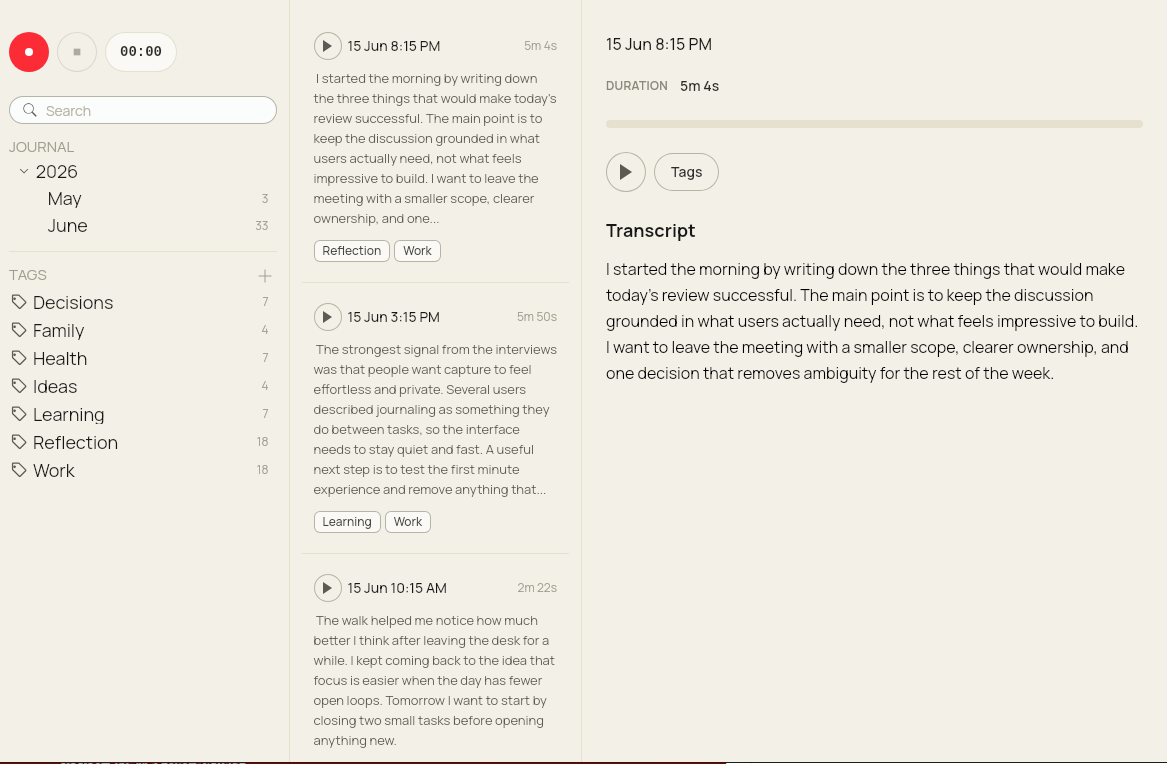
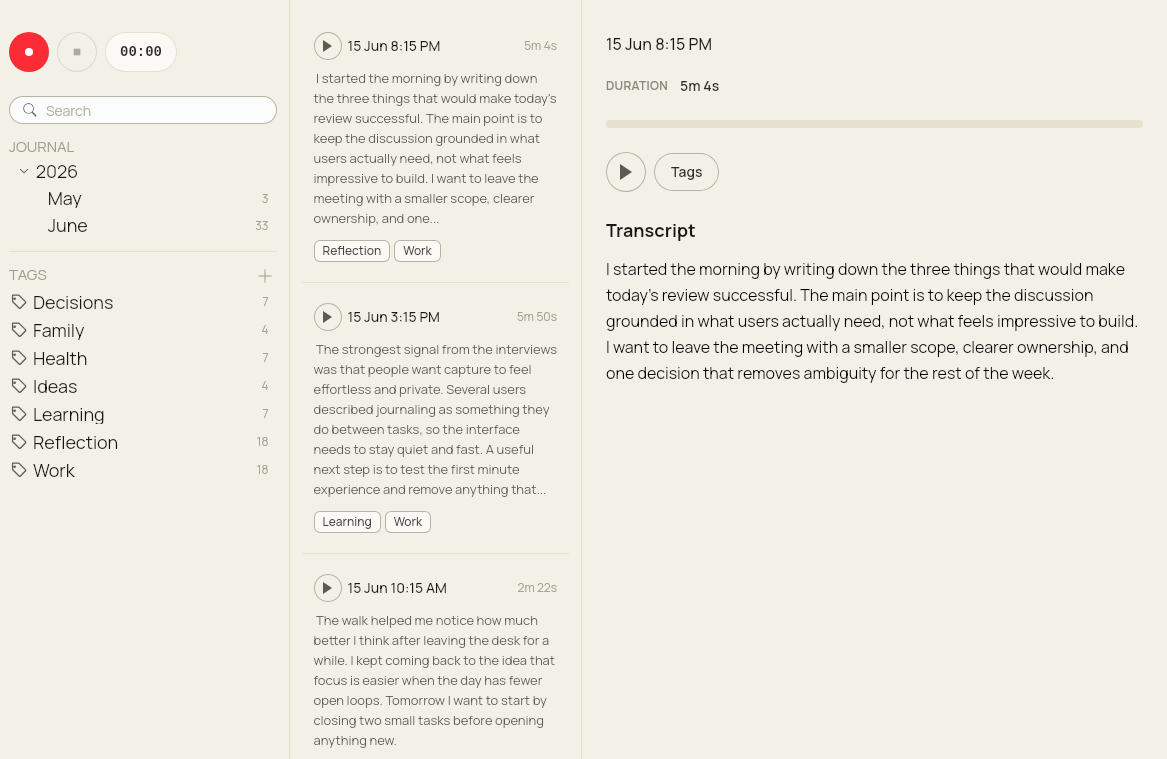
update README and add license

diff --git a/README.md b/README.md
@@ -1,8 +1,6 @@
 # Journica
 
-![Journica hero](docs/assets/journica-hero.svg)
-
-Journica is a local-first audio journal for recording spoken notes, transcribing them offline, and finding them later by date, tag, title, or transcript text.
+Journica is a local-first desktop app for recording spoken notes, transcribing them offline, and finding them later by date, folder, tag, or transcript text.
 
 [Download the latest release](https://github.com/Journica/journica-gui/releases) | [Report an issue](https://github.com/Journica/journica-gui/issues)
 
@@ -12,31 +10,31 @@ Journica is a local-first audio journal for recording spoken notes, transcribing
 
 ## Why Journica
 
-- Record long voice journals from a desktop app.
-- Transcribe recordings locally with Whisper, without sending audio to a cloud service.
-- Browse entries by journal date and filter with tags.
-- Search titles, filenames, tags, and transcript text.
-- Recover in-progress recordings after an app or system crash.
+- **Stays on your machine.** Audio never leaves your device — recordings are stored locally and transcribed by a bundled Whisper model.
+- **Record from your desktop.** Start, pause, and stop journal entries from the app without touching a browser or phone.
+- **Find anything fast.** Full-text search across titles, filenames, and transcript text. Filter by date folder or tag.
+- **Organize with folders and tags.** Auto-created date folders keep a chronological journal; custom folders and tags let you group entries any way you like.
+- **Survives crashes.** In-progress recordings are recovered automatically after an app or system crash.
 
 ## Downloads
 
-Installers are published from GitHub Releases as draft releases while builds are being verified.
+Installers are available on the [releases page](https://github.com/Journica/journica-gui/releases).
 
-- macOS Apple Silicon: use the `aarch64` macOS build for M1, M2, M3, and M4 Macs.
-- macOS Intel: use the `x86_64` macOS build.
-- Windows: use the Windows installer from the latest release.
-- Linux: use the Linux package from the latest release.
+- **macOS Apple Silicon** — use the `aarch64` build (M1/M2/M3/M4)
+- **macOS Intel** — use the `x86_64` build
+- **Windows** — use the Windows installer
+- **Linux** — use the Linux package
 
-To check your Mac architecture, open Apple menu, then About This Mac. If it says `Chip Apple M...`, use Apple Silicon. If it says `Processor Intel`, use Intel.
+To check your Mac chip: Apple menu → About This Mac. `Chip Apple M...` means Apple Silicon; `Processor Intel` means Intel.
 
 ## Development
 
 ### Requirements
 
-- Node.js 22 or newer
+- Node.js 22+
 - Rust stable
 - Tauri system dependencies for your OS
-- SQLite CLI, only needed for manual migration testing
+- SQLite CLI (optional, for manual migration testing)
 
 ### Install
 
@@ -44,7 +42,7 @@ To check your Mac architecture, open Apple menu, then About This Mac. If it says
 npm install
 ```
 
-### Run The App
+### Run
 
 ```bash
 npm run tauri dev
@@ -65,9 +63,7 @@ Generate artificial recordings and transcripts for local testing:
 npm run seed:data
 ```
 
-Default seed size is `200` entries.
-
-Useful flags:
+Default seed size is 200 entries. Flags:
 
 ```bash
 python3 scripts/seed_fake_data.py --count 50
@@ -75,17 +71,16 @@ python3 scripts/seed_fake_data.py --append
 python3 scripts/seed_fake_data.py --app-dir /path/to/custom/app-data
 ```
 
-By default this replaces only existing entries with titles starting with `FAKE:` and keeps real recordings untouched.
+By default this replaces only entries with titles starting with `FAKE:` and leaves real recordings untouched.
 
 ## Tech Stack
 
 - Tauri 2
-- React 19
-- TypeScript
+- React 19 + TypeScript
 - Tailwind CSS 4
 - Rust
-- SQLite through SQLx
-- Whisper through `whisper-rs`
+- SQLite via SQLx
+- Whisper via `whisper-rs`
 
 ## Project Structure
 
@@ -93,20 +88,20 @@ By default this replaces only existing entries with titles starting with `FAKE:`
 src/
   features/
     navigation/      Journal tree and navigation UI
-    recorder/        Recording session hooks and Tauri API calls
-    recordings/      Entry queries, playback, tags, and transcript UI
+    recorder/        Recording session hooks and Tauri commands
+    recordings/      Entry queries, playback, tags, folders, and transcript UI
     transcription/   Model setup and transcription progress hooks
-  shared/            Shared UI and utilities
+  shared/            Shared UI components and utilities
 src-tauri/
   migrations/        SQLite schema migrations
-  src/features/      Rust recording, transcription, and data commands
+  src/features/      Rust commands for recording, transcription, and data
 ```
 
 ## Notes
 
-- The transcription model is downloaded on first launch and reused after that.
-- Release builds are created by the GitHub Actions `Release` workflow when a `v*` tag is pushed.
+- The transcription model (~600 MB) is downloaded on first launch and reused after that.
+- Release builds are produced by the GitHub Actions `Release` workflow when a `v*` tag is pushed.
 
 ## License
 
-No license has been published yet.
+This project is released into the public domain under the [Unlicense](LICENSE).